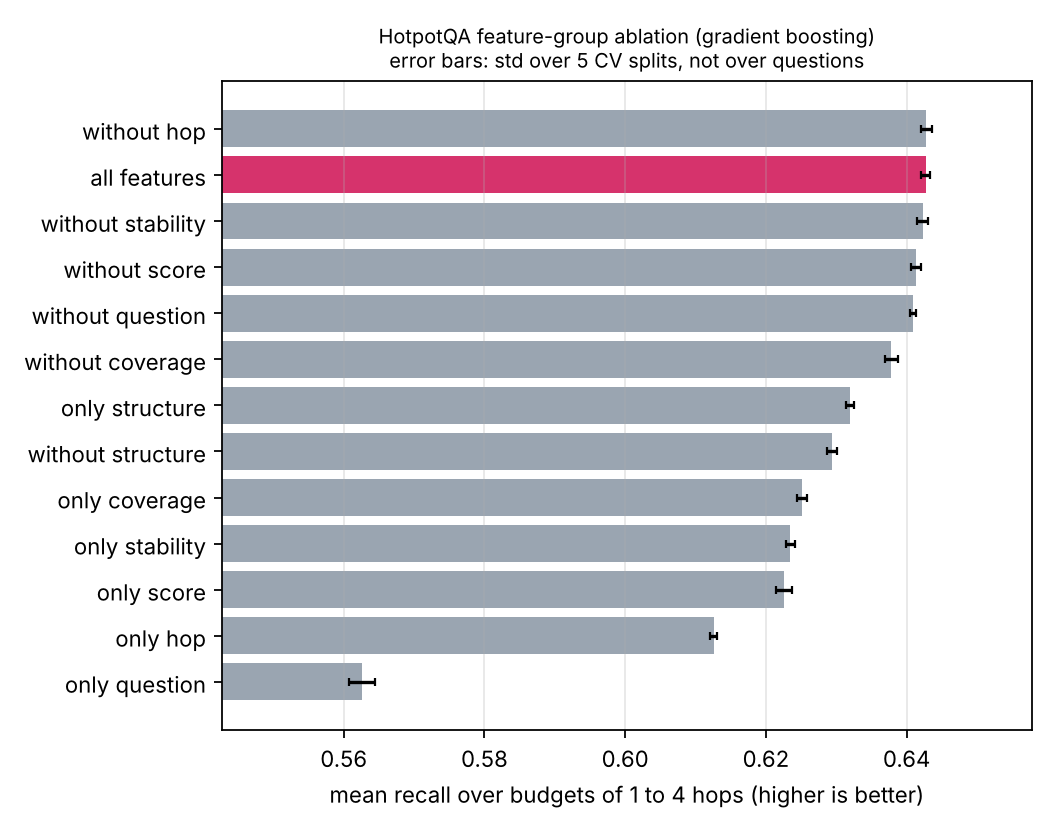
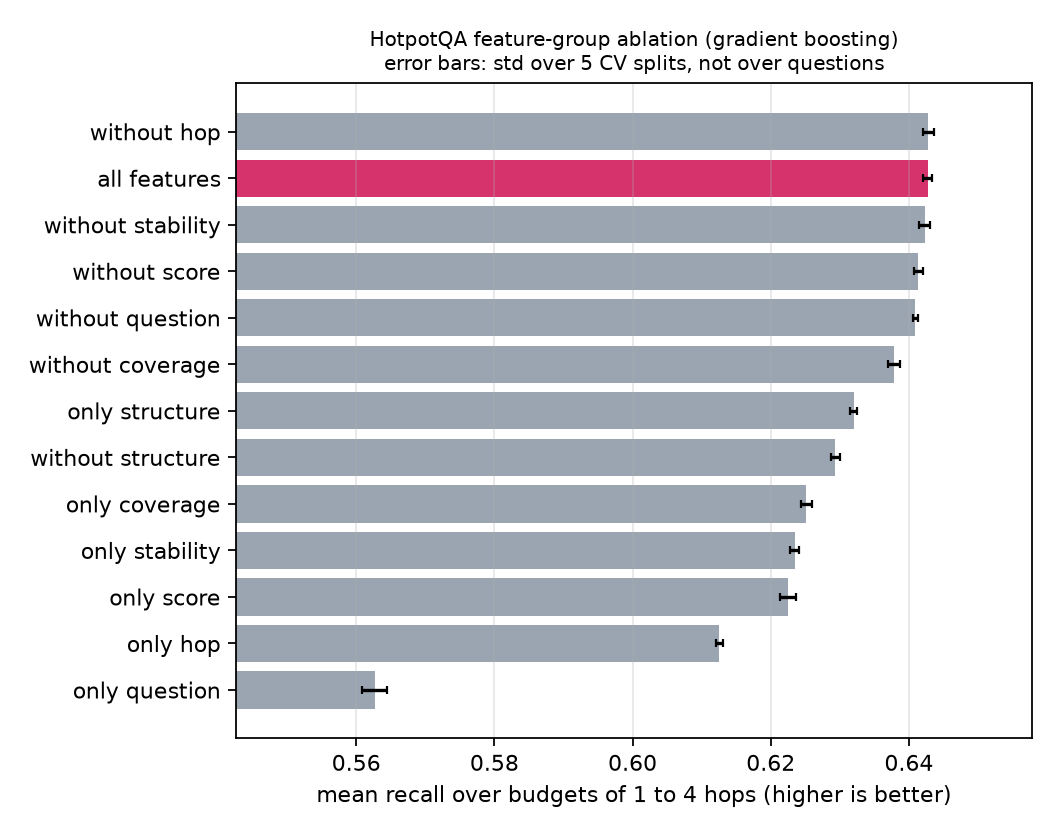
results

Changed region(s): [[0.0312, 0.0312, 0.9688, 0.9688], [0.875, 0.25, 0.9062, 0.2812]]

diff --git a/stopret/cli.py b/stopret/cli.py
@@ -24,10 +24,12 @@ def main() -> None:
     p_run.add_argument("--rebuild", action="store_true",
                        help="recompute the retrieval trajectories instead of reusing the CSVs")
 
-    p_j = sub.add_parser("judge", help="optional: LLM-judge stopping baseline through Ollama")
-    p_j.add_argument("--model", required=True, help="Ollama model name, e.g. llama3.2:3b")
+    p_j = sub.add_parser("judge", help="optional: LLM-judge stopping baseline through Ollama or Groq")
+    p_j.add_argument("--provider", choices=["ollama", "groq"], default="ollama")
+    p_j.add_argument("--model", required=True, help="Model name, e.g. llama3.2:3b or llama-3.3-70b-versatile")
     p_j.add_argument("--n", type=int, default=200, help="number of HotpotQA questions to judge")
-    p_j.add_argument("--host", default="http://localhost:11434")
+    p_j.add_argument("--host", default=None)
+    p_j.add_argument("--api-key", default=None, help="Groq API key (or set GROQ_API_KEY env var)")
     p_j.add_argument("--data-dir", default="data/raw")
     p_j.add_argument("--out-dir", default="results")
 
@@ -38,10 +40,15 @@ def main() -> None:
     if args.command == "download":
         download(args.data_dir)
     elif args.command == "run":
-        metrics = run_all(args.data_dir, args.out_dir, args.rebuild)
-        _write_outputs(metrics, Path(args.out_dir))
     elif args.command == "judge":
-        print(json.dumps(run_llm_judge(args.model, args.n, args.host, args.data_dir, args.out_dir),
+        host = args.host or (
+            "https://api.groq.com/openai/v1" if args.provider == "groq" else "http://localhost:11434"
+        )
+        print(json.dumps(
+            run_llm_judge(args.model, args.n, host, args.data_dir, args.out_dir,
+                          provider=args.provider, api_key=args.api_key),
+            indent=1,
+        ))        print(json.dumps(run_llm_judge(args.model, args.n, args.host, args.data_dir, args.out_dir),
                          indent=1))
     elif args.command == "report":
         out = Path(args.out_dir)

diff --git a/stopret/llm_judge.py b/stopret/llm_judge.py
@@ -53,3 +53,27 @@ class OllamaJudge:
             if self.cache_path:
                 self.cache_path.write_text(json.dumps(self.cache))
         return verdict
+
+# --- Groq / Grok Cloud Judge Section ---
+import os
+
+
+class GroqJudge(OllamaJudge):
+    def __init__(self, model: str = "llama-3.3-70b-versatile", api_key: str | None = None,
+                 host: str = "https://api.groq.com/openai/v1", timeout: float = 300.0,
+                 cache_path: str | Path | None = None):
+        super().__init__(model=model, host=host, timeout=timeout, cache_path=cache_path)
+        self.api_key = api_key or os.environ.get("GROQ_API_KEY") or os.environ.get("XAI_API_KEY", "")
+
+    def _generate(self, prompt: str) -> str:
+        body = json.dumps({"model": self.model,
+                           "messages": [{"role": "user", "content": prompt}],
+                           "temperature": 0, "max_tokens": 4}).encode()
+        headers = {
+            "Content-Type": "application/json",
+            "Authorization": f"Bearer {self.api_key}",
+            "User-Agent": "stopret/1.0",
+        }
+        request = urllib.request.Request(f"{self.host}/chat/completions", data=body, headers=headers)
+        with urllib.request.urlopen(request, timeout=self.timeout) as response:
+            return json.loads(response.read())["choices"][0]["message"]["content"]
